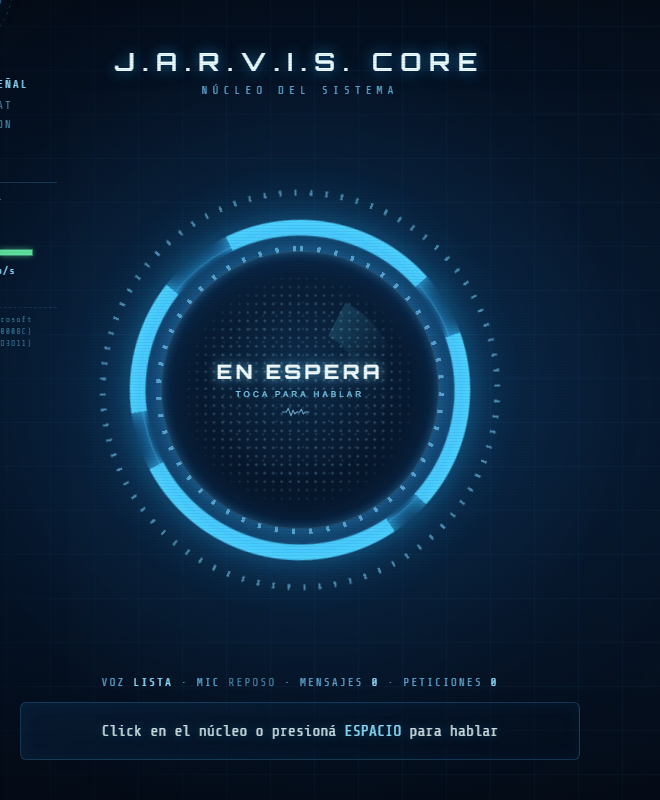
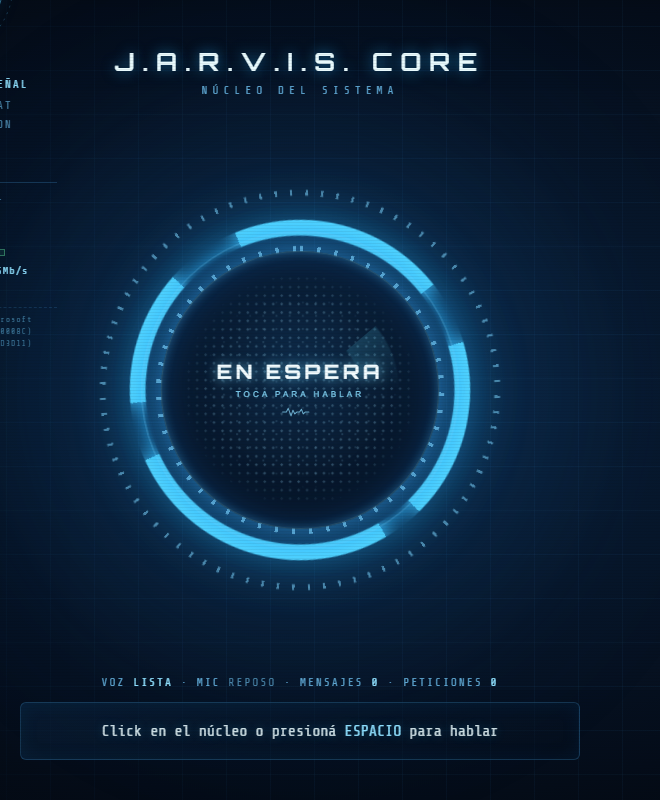
new webhook n8n

diff --git a/src/hooks/useJarvis.js b/src/hooks/useJarvis.js
@@ -39,9 +39,9 @@ export function useJarvis() {
   const [transcript, setTranscript] = useState('');
   const [historial, setHistorial] = useState(cargarHistorial);
   const [log, setLog] = useState([
-    { quien: 'SISTEMA', texto: 'J.A.R.V.I.S. en línea. Cerebro local activo, Make solo para acciones.', hora: hora() },
+    { quien: 'SISTEMA', texto: 'J.A.R.V.I.S. en línea. Cerebro local activo, n8n solo para acciones.', hora: hora() },
   ]);
-  // Estado del enlace con Make (solo cuenta llamadas de ACCIONES)
+  // Estado del enlace con n8n (solo cuenta llamadas de ACCIONES)
   const [red, setRed] = useState({ peticiones: 0, latencia: null, uplink: 'SIN TRÁFICO' });
 
   const detenerRef = useRef(null);
@@ -173,14 +173,17 @@ export function useJarvis() {
     [groqChat]
   );
 
-  // ---- Acciones (navegador -> Make, con la intención ya resuelta) ----
-  const accionMake = useCallback(async (texto, intencion) => {
+  // ---- Acciones (navegador -> n8n, con la intención ya resuelta) ----
+  const accionN8n = useCallback(async (texto, intencion) => {
     const previos = historialRef.current.slice(-MAX_ENVIADOS);
     const historialStr =
       previos.map((m) => JSON.stringify(m)).join(',') + (previos.length ? ',' : '');
     const t0 = performance.now();
     const r = await fetch(WEBHOOK_URL, {
       method: 'POST',
+      // El header evita la página de advertencia que ngrok (plan
+      // gratis) intercala cuando la petición viene de un navegador.
+      headers: { 'ngrok-skip-browser-warning': '1' },
       body: new URLSearchParams({ texto, historial: historialStr, intencion }),
     });
     const respuesta = (await r.text()).trim();
@@ -208,7 +211,7 @@ export function useJarvis() {
         if (intencion === 'CHARLA') {
           respuesta = await charlar(sanitizado);
         } else {
-          respuesta = await accionMake(sanitizado, intencion);
+          respuesta = await accionN8n(sanitizado, intencion);
         }
         if (respuesta) {
           setHistorial((h) =>
@@ -222,14 +225,14 @@ export function useJarvis() {
           setEstado(ESTADOS.HABLANDO);
           await hablar(respuesta);
         } else {
-          addLog('SISTEMA', 'Respuesta vacía. Revisá el escenario de Make o la key de Groq.');
+          addLog('SISTEMA', 'Respuesta vacía. Revisá el workflow de n8n o la key de Groq.');
         }
       } catch (e) {
         addLog('SISTEMA', 'Error: ' + e.message);
       }
       setEstado(ESTADOS.STANDBY);
     },
-    [addLog, clasificar, charlar, accionMake, hablar]
+    [addLog, clasificar, charlar, accionN8n, hablar]
   );
 
   // ---- Borrar la memoria de conversación ----

diff --git a/src/config.js b/src/config.js
@@ -2,14 +2,15 @@
 //  CONFIGURACIÓN DE J.A.R.V.I.S.
 //  En local usa los valores de respaldo; en Vercel lee las
 //  variables de entorno (Settings -> Environment Variables):
-//    VITE_MAKE_WEBHOOK_URL
+//    VITE_N8N_WEBHOOK_URL
 //    VITE_GROQ_API_KEY
 // ============================================================
 
-// Webhook del escenario "Jarvis - Acciones" en Make
+// Webhook del workflow "jarvis-acciones" en n8n (self-hosted,
+// expuesto a internet con el túnel de ngrok)
 export const WEBHOOK_URL =
-  import.meta.env.VITE_MAKE_WEBHOOK_URL ||
-  'https://hook.us2.make.com/0f48ralthjnc5fvijwrp0ohnxjlfdn1l';
+  import.meta.env.VITE_N8N_WEBHOOK_URL ||
+  'https://lard-alone-outpost.ngrok-free.dev/webhook/jarvis-acciones';
 
 // Key de Groq: transcripción (Whisper) + clasificador + charla.
 // SIN valor de respaldo a propósito: si se commitea una key a un

diff --git a/src/App.jsx b/src/App.jsx
@@ -21,7 +21,7 @@ import { OPERADOR } from './config';
 //  consola de misión al centro, columna derecha (red / audio /
 //  reloj), panel FEED abajo y dock lateral. Todos los paneles
 //  muestran datos reales: sistema (useSystemMetrics), audio
-//  (useAudioAnalyser) y el cerebro (useJarvis -> Make -> Groq).
+//  (useAudioAnalyser) y el cerebro (useJarvis -> Groq / n8n).
 // ============================================================
 
 const ETIQUETA_ESTADO = {
@@ -160,7 +160,7 @@ export default function App() {
           </span>
           <span className="t-sep" />
           <span>
-            ENLACE MAKE //{' '}
+            ENLACE N8N //{' '}
             <span className={red.uplink === 'ERROR' ? 't-rojo' : 't-verde'}>{red.uplink}</span>
           </span>
           <span className="empuje t-apagado">

diff --git a/README.md b/README.md
@@ -15,7 +15,8 @@ Corre en el navegador, con cerebro de IA real y telemetría en vivo.
 ![Vite](https://img.shields.io/badge/Vite_5-0a1a2f?style=for-the-badge&logo=vite&logoColor=56c8ff)
 ![Groq](https://img.shields.io/badge/Groq_·_GPT--OSS--120B-0a1a2f?style=for-the-badge&logo=openai&logoColor=56c8ff)
 ![Whisper](https://img.shields.io/badge/Whisper_v3_Turbo-0a1a2f?style=for-the-badge&logo=soundcharts&logoColor=56c8ff)
-![Make](https://img.shields.io/badge/Make_(Integromat)-0a1a2f?style=for-the-badge&logo=make&logoColor=56c8ff)
+![n8n](https://img.shields.io/badge/n8n_self--hosted-0a1a2f?style=for-the-badge&logo=n8n&logoColor=56c8ff)
+![ngrok](https://img.shields.io/badge/ngrok_tunnel-0a1a2f?style=for-the-badge&logo=ngrok&logoColor=56c8ff)
 ![Vosk](https://img.shields.io/badge/Vosk_WASM_·_Wake_Word-0a1a2f?style=for-the-badge&logo=webassembly&logoColor=56c8ff)
 
 <br/>
@@ -46,7 +47,7 @@ No es una demo con datos falsos: **cada panel del HUD muestra telemetría real**
 | ✍️ **Te transcribe** | Manda el audio a **Whisper Large v3 Turbo** en Groq — transcripción en español casi instantánea |
 | 🧭 **Clasifica la intención** | Un clasificador LLM decide en milisegundos: ¿es `CHARLA`, `CLIMA` o `BUSCAR`? |
 | 💬 **Conversa** | La charla va directo del navegador a **Groq (`gpt-oss-120b`)** — cero operaciones de Make gastadas |
-| 🌐 **Ejecuta acciones** | Clima y búsquedas en internet se derivan al escenario **"Jarvis - Acciones"** en Make vía webhook |
+| 🌐 **Ejecuta acciones** | Clima y búsquedas en internet se derivan al workflow **"jarvis-acciones"** en **n8n** (self-hosted, expuesto con ngrok) vía webhook |
 | 🔊 **Te responde hablando** | Síntesis de voz del sistema (`speechSynthesis`) con voz masculina en español, blindada contra los bugs de Chrome |
 | 🧠 **Tiene memoria** | Guarda hasta 40 mensajes en `localStorage` y manda los últimos 12 como contexto — se acuerda de la conversación entre sesiones |
 | 👂 **Wake word "Jarvis"** | Reconocimiento **100 % local** con Vosk (WebAssembly): decís *"Jarvis"* y se despierta solo. El audio nunca sale de tu máquina |
@@ -71,8 +72,8 @@ flowchart LR
         LLM["gpt-oss-120b<br/>(clasificador + charla)"]
     end
 
-    subgraph MAKE ["🔧 MAKE"]
-        WH["Webhook<br/>'Jarvis - Acciones'"]
+    subgraph N8N ["🔧 N8N (self-hosted · túnel ngrok)"]
+        WH["Webhook<br/>'jarvis-acciones'"]
         ACC["🌤️ Clima · 🔎 Búsquedas"]
     end
 
@@ -95,11 +96,11 @@ flowchart LR
 3. **Transcripción** — el audio viaja a **Whisper (Groq)** y vuelve como texto en español.
 4. **Clasificación** — un LLM con `temperature: 0` responde una sola palabra: `CHARLA`, `CLIMA` o `BUSCAR`.
 5. **Ruteo inteligente** 💡 — acá está el truco de eficiencia:
-   - `CHARLA` → **directo a Groq desde el navegador** (gratis, sin gastar operaciones de Make)
-   - `CLIMA` / `BUSCAR` → **POST al webhook de Make**, que resuelve la acción y devuelve texto plano
+   - `CHARLA` → **directo a Groq desde el navegador** (sin pasar por el servidor de acciones)
+   - `CLIMA` / `BUSCAR` → **POST al webhook de n8n** (corriendo local, expuesto a internet con **ngrok**), que resuelve la acción y devuelve texto plano
 6. **Respuesta hablada** — el texto se lee en voz alta con la mejor voz masculina en español disponible, y se guarda en la memoria de conversación.
 
-> 💰 **Diseño orientado a costo cero:** solo las *acciones* gastan operaciones de Make. Todo lo demás (transcripción, clasificación, charla, wake word, voz) corre gratis en Groq o localmente en tu navegador.
+> 💰 **Diseño orientado a costo cero:** n8n corre **self-hosted en tu propia máquina** (sin límites de operaciones ni planes pagos) y todo lo demás (transcripción, clasificación, charla, wake word, voz) corre gratis en Groq o localmente en tu navegador.
 
 <br/>
 
@@ -127,6 +128,7 @@ flowchart LR
 - [Node.js](https://nodejs.org) **18+** (LTS recomendada)
 - **Google Chrome** (micrófono + síntesis de voz funcionan mejor ahí)
 - Una API key gratuita de [Groq](https://console.groq.com)
+- **n8n** corriendo (local o self-hosted) con el workflow **"jarvis-acciones"** activo, expuesto con [ngrok](https://ngrok.com) si el HUD no corre en la misma red
 
 ### Instalación
 
@@ -136,7 +138,7 @@ npm install
 
 # 2. Configurar credenciales
 cp .env.example .env
-#    → completar VITE_GROQ_API_KEY y VITE_MAKE_WEBHOOK_URL
+#    → completar VITE_GROQ_API_KEY y VITE_N8N_WEBHOOK_URL
 
 # 3. Encender el reactor
 npm run dev
@@ -166,11 +168,11 @@ Abrir **http://localhost:5173** en Chrome y permitir el micrófono cuando lo pid
 
 ```
 src/
-├── config.js                 ← 🔑 webhook de Make, key de Groq, idioma, operador, personalidad
+├── config.js                 ← 🔑 webhook de n8n, key de Groq, idioma, operador, personalidad
 ├── App.jsx                   ← 📟 layout del HUD (escenario 1920×1080 con escala uniforme)
 ├── styles.css                ← 🎨 estética Iron Man (tokens de color y tipografía)
 ├── hooks/
-│   ├── useJarvis.js          ← 🧠 el cerebro: grabar → Whisper → clasificar → Groq/Make → hablar
+│   ├── useJarvis.js          ← 🧠 el cerebro: grabar → Whisper → clasificar → Groq/n8n → hablar
 │   ├── useWakeWord.js        ← 👂 vigilancia "Jarvis" con Vosk (WebAssembly, offline)
 │   ├── useSystemMetrics.js   ← 📊 batería, red, GPS, clima, FPS, memoria, núcleos
 │   └── useAudioAnalyser.js   ← 🎵 waveform en vivo del micrófono
@@ -184,7 +186,7 @@ src/
 
 | Variable | Qué es |
 |---|---|
-| `VITE_MAKE_WEBHOOK_URL` | URL del webhook del escenario **"Jarvis - Acciones"** en Make |
+| `VITE_N8N_WEBHOOK_URL` | URL del webhook del workflow **"jarvis-acciones"** en n8n (túnel de ngrok si es local) |
 | `VITE_GROQ_API_KEY` | Key de Groq — transcripción, clasificador y charla |
 | `IDIOMA` | Idioma de voz y transcripción (`es-AR`) |
 | `OPERADOR` | Tu nombre en el HUD |
@@ -199,7 +201,7 @@ src/
 | UI / HUD | React 18 + Vite 5, CSS puro (sin frameworks) | Gratis |
 | Transcripción | Whisper Large v3 Turbo vía Groq | Gratis |
 | Cerebro / clasificador | `openai/gpt-oss-120b` vía Groq | Gratis |
-| Acciones (clima, búsqueda) | Make — escenario "Jarvis - Acciones" | ~operaciones de Make solo en acciones |
+| Acciones (clima, búsqueda) | n8n self-hosted — workflow "jarvis-acciones" + túnel ngrok | Gratis (corre en tu máquina) |
 | Wake word | Vosk (modelo español ~40 MB, WebAssembly, offline) | Gratis |
 | Voz de salida | `speechSynthesis` del sistema operativo | Gratis |
 | Memoria | `localStorage` del navegador | Gratis |
@@ -211,7 +213,8 @@ src/
 - [x] ~~Wake word "Jarvis"~~ → **hecho con Vosk, 100 % local**
 - [x] ~~Memoria de conversación~~ → **hecho con `localStorage` (40 mensajes)**
 - [x] ~~Clasificador de intenciones~~ → **hecho: CHARLA / CLIMA / BUSCAR**
-- [ ] Más ramas de acciones en Make: tareas, YouTube, agenda, mail
+- [x] ~~Migración de Make a n8n~~ → **hecho: self-hosted, sin límite de operaciones**
+- [ ] Más ramas de acciones en n8n: tareas, YouTube, agenda, mail
 - [ ] Voz premium local (Piper TTS)
 - [ ] Gestos con MediaPipe Hands
 - [ ] Control de domótica